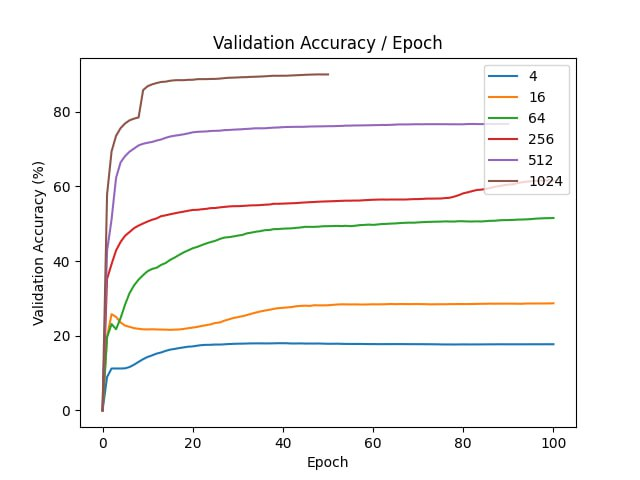
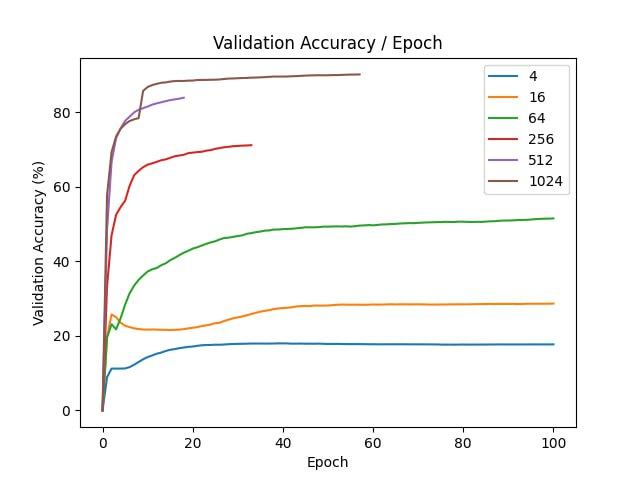
update metric values

diff --git a/_posts/2023-12-12-projected-fff-networks.md b/_posts/2023-12-12-projected-fff-networks.md
@@ -77,9 +77,9 @@ In our experiments, we compare how fast does the model train with random initial
 |4 |  17.72|
 |16 |  28.68|
 |64 |  51.52|
-|256 |  61.52|
-|512 |  76.73|
-|1024 |  89.95|
+|256 |  71.18|
+|512 |  83.93|
+|1024 |  90.18|
 |original| 95.65|
 
 
